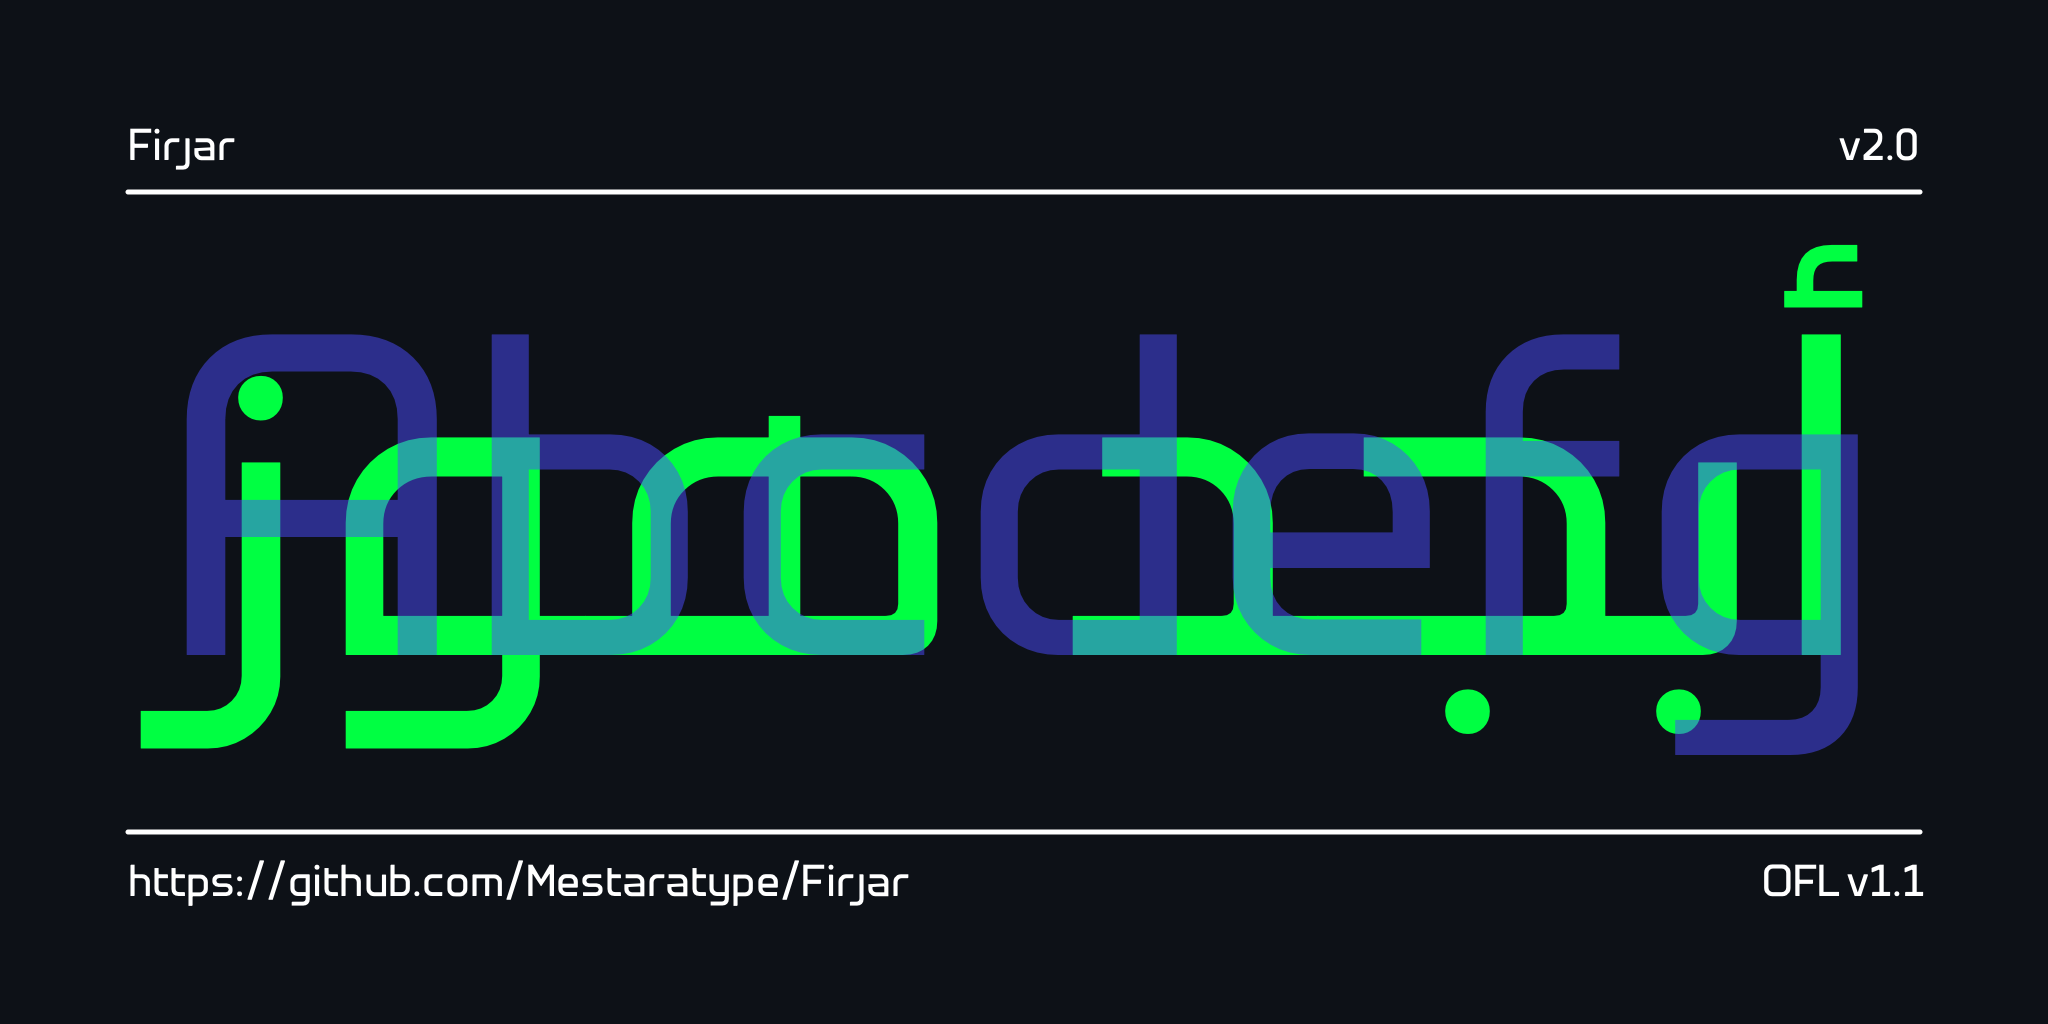
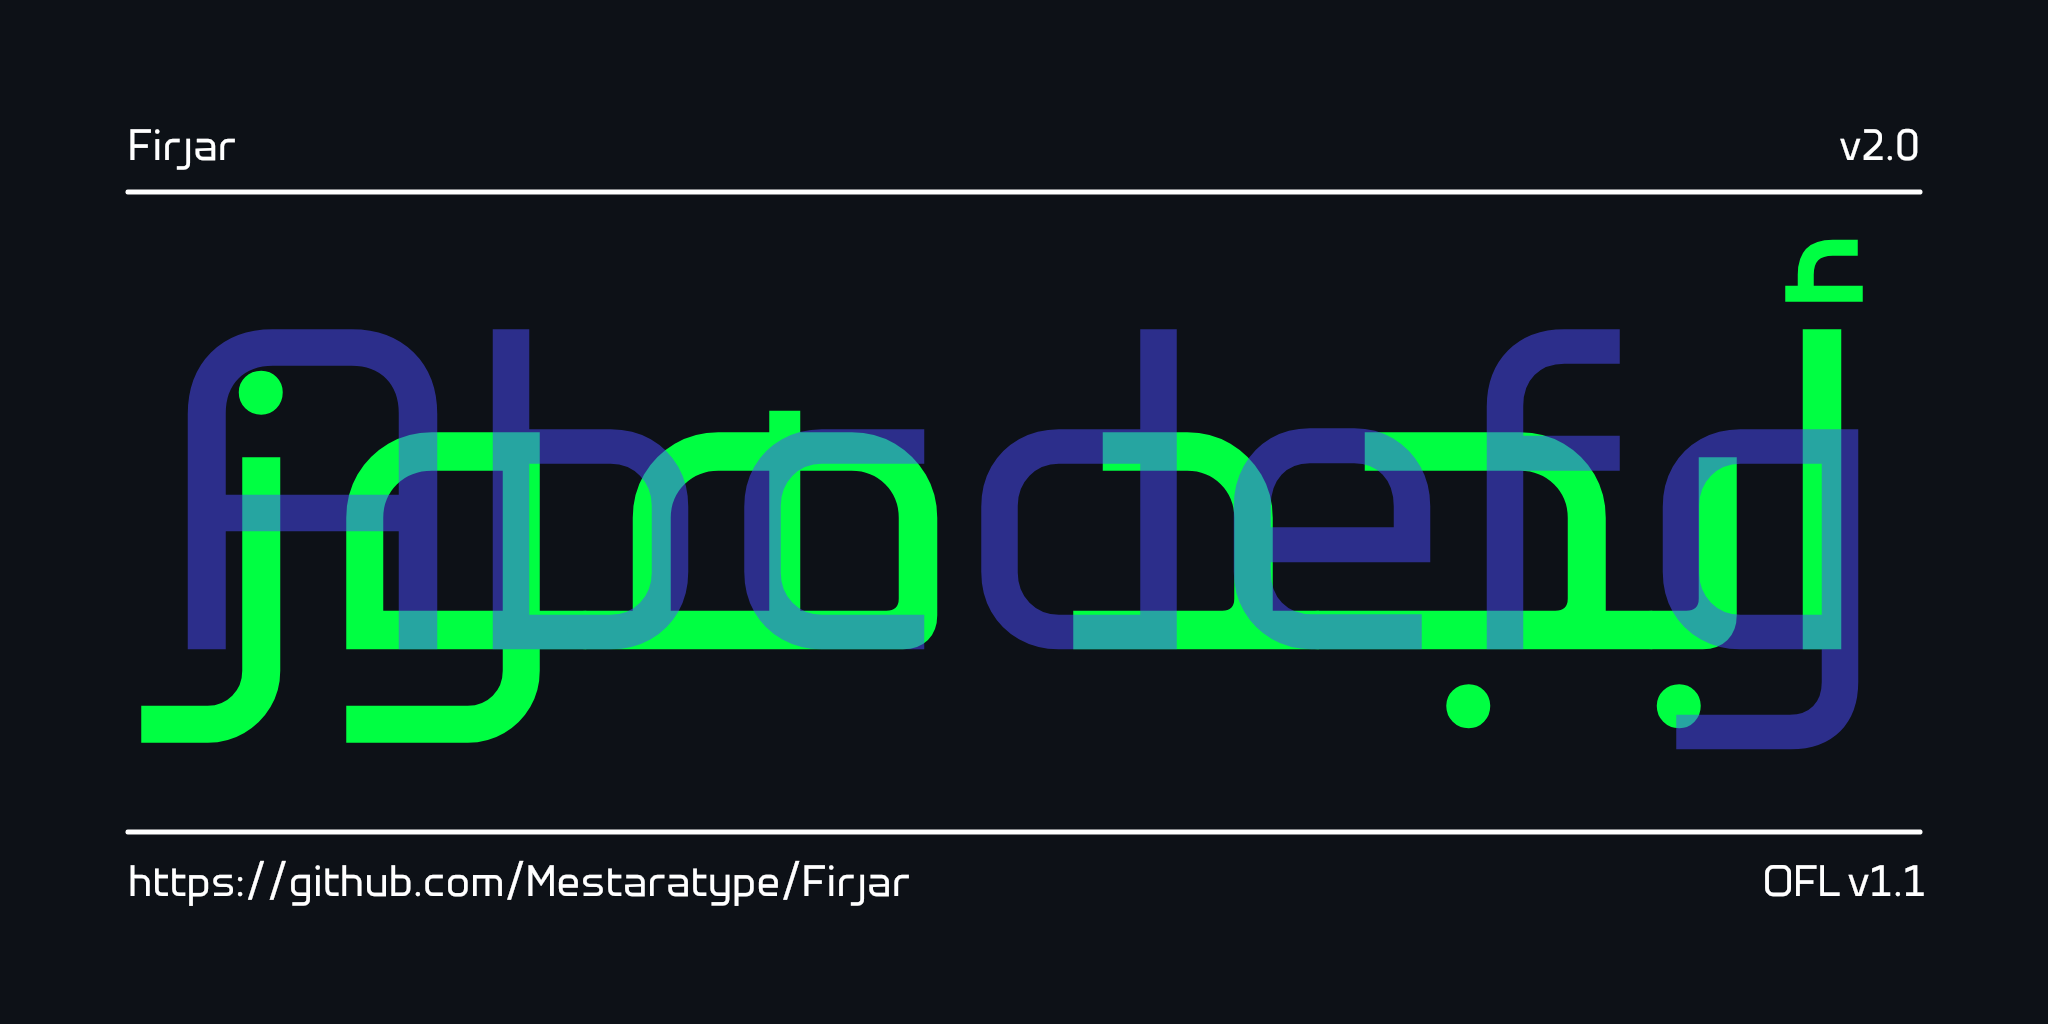
update python

diff --git a/documentation/image2.py b/documentation/image2.py
@@ -5,7 +5,7 @@
 # $ python3 documentation/image1.py --output documentation/image1.png
 
 # Import modules from external python packages: https://pypi.org/
-from drawBot import *
+from drawbot_skia.drawbot import *
 from fontTools.ttLib import TTFont
 from fontTools.misc.fixedTools import floatToFixedToStr
 
@@ -21,21 +21,21 @@ FONT_LICENSE = "OFL v1.1"
 AUXILIARY_FONT = "../fonts/ttf/Firjar-Regular.ttf"
 AUXILIARY_FONT_SIZE = 48
 
-LINE_1 = "العلم في الصغر كالنقش على الحجر\nLearning in childhood is like engraving on stone"
+LINE_1 = "العلم في الصغر كالنقش على الحجر"
 FONT_LINE_1 = "../fonts/ttf/Firjar-Thin.ttf"
-LINE_2 = "العلم في الصغر كالنقش على الحجر\nLearning in childhood is like engraving on stone"
-FONT_LINE_2 = "../fonts/ttf/Firjar-ExtraLight.ttf"
-LINE_3 = "العلم في الصغر كالنقش على الحجر\nLearning in childhood is like engraving on stone"
-FONT_LINE_3 = "../fonts/ttf/Firjar-Light.ttf"
-LINE_4 = "العلم في الصغر كالنقش على الحجر\nLearning in childhood is like engraving on stone"
+LINE_2 = "Learning in childhood is like engraving on stone"
+FONT_LINE_2 = "../fonts/ttf/Firjar-Thin.ttf"
+LINE_3 = "العلم في الصغر كالنقش على الحجر"
+FONT_LINE_3 = "../fonts/ttf/Firjar-Regular.ttf"
+LINE_4 = "Learning in childhood is like engraving on stone"
 FONT_LINE_4 = "../fonts/ttf/Firjar-Regular.ttf"
-LINE_5 = "العلم في الصغر كالنقش على الحجر\nLearning in childhood is like engraving on stone"
-FONT_LINE_5 = "../fonts/ttf/Firjar-SimiBold.ttf"
-LINE_6 = "العلم في الصغر كالنقش على الحجر\nLearning in childhood is like engraving on stone"
+LINE_5 = "العلم في الصغر كالنقش على الحجر"
+FONT_LINE_5 = "../fonts/ttf/Firjar-Bold.ttf"
+LINE_6 = "Learning in childhood is like engraving on stone"
 FONT_LINE_6 = "../fonts/ttf/Firjar-Bold.ttf"
-LINE_7 = "العلم في الصغر كالنقش على الحجر\nLearning in childhood is like engraving on stone"
-FONT_LINE_7 = "../fonts/ttf/Firjar-ExtraBold.ttf"
-LINE_8 = "العلم في الصغر كالنقش على الحجر\nLearning in childhood is like engraving on stone"
+LINE_7 = "العلم في الصغر كالنقش على الحجر"
+FONT_LINE_7 = "../fonts/ttf/Firjar-Black.ttf"
+LINE_8 = "Learning in childhood is like engraving on stone"
 FONT_LINE_8 = "../fonts/ttf/Firjar-Black.ttf"
 BIG_TEXT_FONT_SIZE = 72
 
@@ -104,16 +104,21 @@ def draw_main_text():
     fontSize(BIG_TEXT_FONT_SIZE)
     openTypeFeatures(kern=False)
 
-    y = HEIGHT - MARGIN + 65
+    y = HEIGHT - MARGIN
     
-    i_values = [FONT_LINE_1,  FONT_LINE_4, FONT_LINE_6, FONT_LINE_8]
-    lines = [LINE_1,  LINE_4,  LINE_6,  LINE_8]
-
+    i_values = [FONT_LINE_1, FONT_LINE_2, FONT_LINE_3, FONT_LINE_4, FONT_LINE_5, FONT_LINE_6, FONT_LINE_7, FONT_LINE_8]
+    lines = [LINE_1, LINE_2, LINE_3, LINE_4, LINE_5, LINE_6, LINE_7, LINE_8]
+    num=0
     for i, line in zip(i_values, lines):
         font(i)
         _, h = textSize(line)
-        y -= h
+        if num % 2:
+            y -= h # Odd
+        else:
+            y -= h + 52 # Even
+        num += 1
         text(line, (WIDTH / 2, y), "center")
+        
     
     # for line in [LINE_1, LINE_2, LINE_3, LINE_4, LINE_5, LINE_6, LINE_7, LINE_8]:
     #     _, h = textSize(line)

diff --git a/documentation/image1.py b/documentation/image1.py
@@ -5,7 +5,7 @@
 # $ python3 documentation/image1.py --output documentation/image1.png
 
 # Import moduels from external python packages: https://pypi.org/
-from drawBot import *
+from drawbot_skia.drawbot import *
 from fontTools.ttLib import TTFont
 from fontTools.misc.fixedTools import floatToFixedToStr
 
@@ -91,7 +91,7 @@ def draw_main_text():
     font(FONT_PATH)
     fontSize(BIG_TEXT_FONT_SIZE)
     _, h = textSize(BIG_TEXT)
-    y = HEIGHT - MARGIN - (h * 0.63)
+    y = HEIGHT - MARGIN - (h * 0.75)
     text(BIG_TEXT, (WIDTH / 2, y), "center")
     
 # Draw main text
@@ -101,7 +101,7 @@ def draw_main_text2():
     font(FONT_PATH)
     fontSize(BIG_TEXT_FONT_SIZE)
     _, h = textSize(BIG_TEXT2)
-    y = HEIGHT - MARGIN - (h * 0.63)
+    y = HEIGHT - MARGIN - (h * 0.75)
     text(BIG_TEXT2, (WIDTH / 2, y), "center")
 
 

diff --git a/documentation/nameplate.py b/documentation/nameplate.py
@@ -1,6 +1,6 @@
 # drawbot.com - use drawbot-skia on Linux systems
 # $ pip install git+https://github.com/typemytype/drawbot
-from drawBot import *
+from drawbot_skia.drawbot import *
 
 
 # Constants, these are the main "settings" for the image
@@ -49,7 +49,7 @@ def draw_background():
 def draw_image():
     draw_background()
     stroke(None)
-    font("../../fonts/variable/Firjar[wdth,wght].ttf")
+    font("../fonts/variable/Firjar[wdth,wght].ttf")
     fontSize(MARGIN * 1.25)
     fontVariations(wght=800)
     fontVariations(wdth=100)
